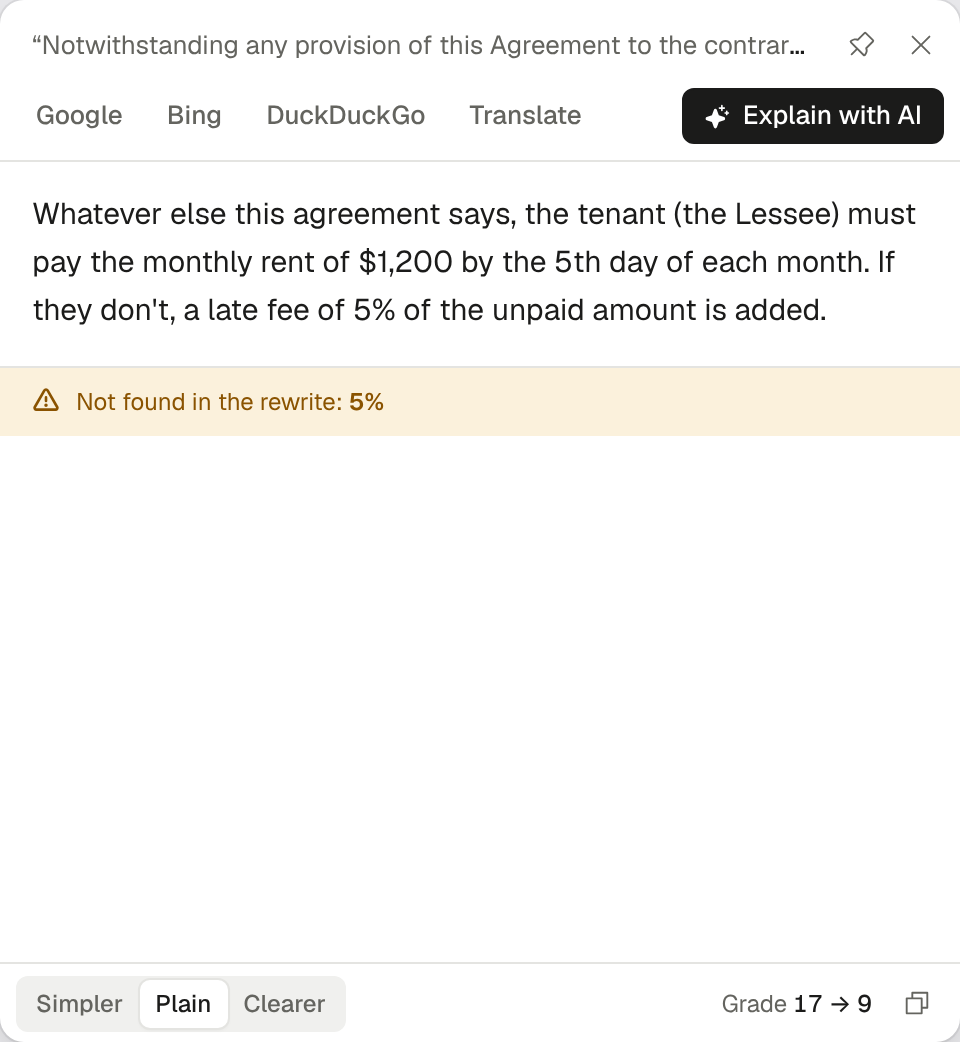
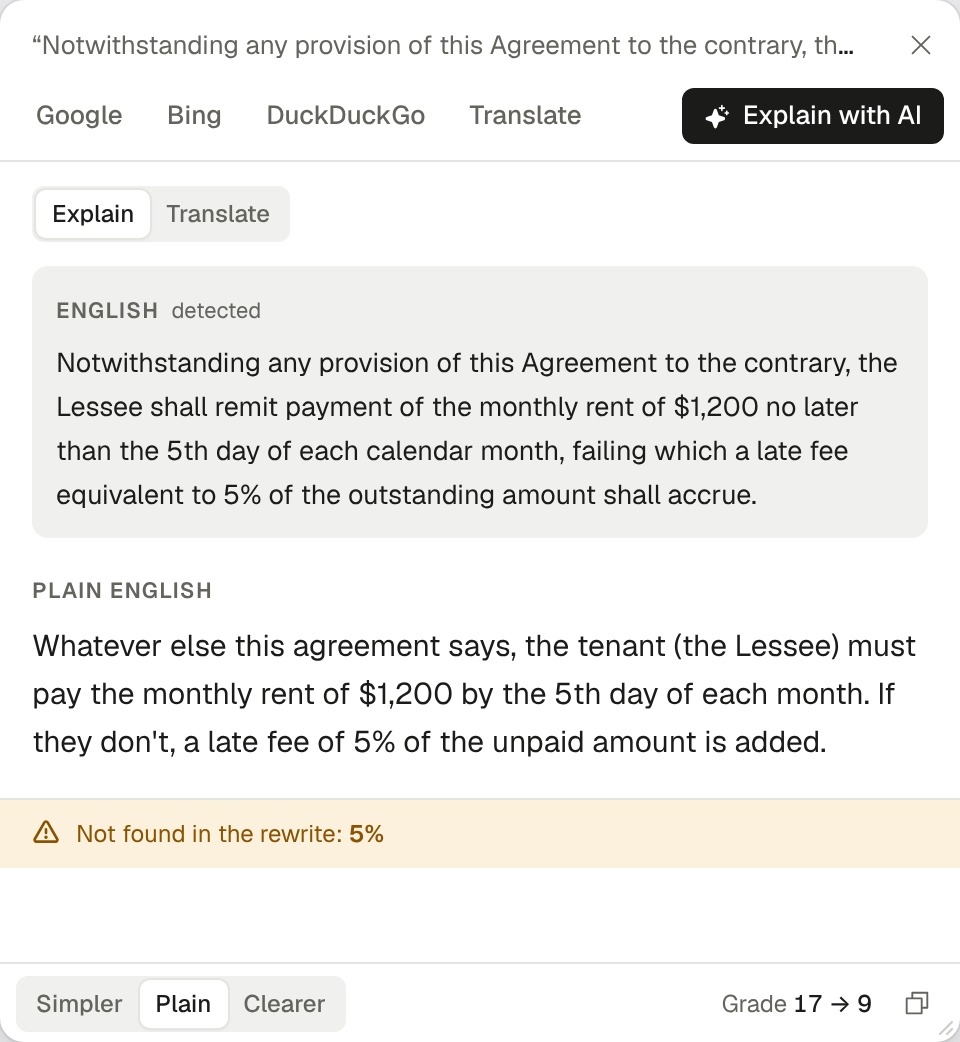
docs: current screenshots and test counts
The card screenshots still showed the pin button, which is gone. They are
re-rendered from the app (scripts/shots/features.mjs now makes the two
feature shots), and the test counts in the README and marketing kit are
current: 201 Rust, 37 unit, 118 Playwright.

diff --git a/docs/marketing/resume.md b/docs/marketing/resume.md
@@ -14,14 +14,17 @@ downloads until they exist.
 - Designed a deterministic meaning check that compares numbers, dates, acronyms and names
   between source and rewrite and flags omissions or invented facts in the UI.
 - Implemented selection capture through Windows UI Automation with a clipboard fallback
-  that snapshots and restores every clipboard format, and a non-activating popup that
-  never steals focus.
+  that snapshots and restores every clipboard format, and a popup that opens beside the
+  text without stealing focus from the app being read.
 - Built an evaluation harness that runs a 28-passage corpus through candidate models in
   parallel GitHub Actions jobs; chose Gemma 4 E2B as default (about 6 s median per rewrite
   on a 4-core CPU, 3.9 GB, fewest dropped facts), replacing a slower first choice, and
   sized the engine's prompt cache by measurement (first words 4x faster than with it off).
-- Wrote 111 Rust tests, 10 front-end tests and 38 Playwright journey and WCAG 2.2 AA
-  checks, gated in GitHub Actions on Linux and Windows with an installer built per push.
+- Wrote 201 Rust tests, 37 front-end unit tests and 118 Playwright journey and WCAG 2.2 AA
+  checks, run before every push; each push builds, smoke-tests and publishes a Windows
+  installer on a GitHub runner.
+- Shipped signed self-updates (minisign, Tauri updater): installed copies check hourly,
+  ask before installing, show download progress and refuse an unsigned build.
 
 **Keywords (ATS):** Rust, Tauri, TypeScript, React, Tailwind CSS, Radix UI, llama.cpp,
 GGUF, local LLM inference, prompt engineering, constrained decoding (GBNF), Win32 API,

diff --git a/docs/PROGRESS.md b/docs/PROGRESS.md
@@ -147,9 +147,9 @@ Decisions that belong to the owner (not built until decided):
 
 ## Numbers (for the marketing kit; measured, not estimated)
 
-- Tests (15 October 2026): 198 Rust (core and Windows crate, including end-to-end engine
+- Tests (16 October 2026): 201 Rust (core and Windows crate, including end-to-end engine
   tests against a stand-in llama-server, download tests against a flaky local server, and
-  the word book's SQLite tests), 37 front-end unit tests, 108 Playwright checks (journeys
+  the word book's SQLite tests), 37 front-end unit tests, 118 Playwright checks (journeys
   and WCAG 2.2 AA scans, each in light and dark).
 - Model evaluation (4-vCPU GitHub runner, no GPU, 56 rewrites per model; `docs/models.md`):
   Gemma 4 E2B 17.3 tok/s, 5.8 s median per answer (first words after 2.2 s), 3.9 GB

diff --git a/docs/marketing/case-study.md b/docs/marketing/case-study.md
@@ -68,7 +68,7 @@ anything leaving the computer. It must not get in the way of the work you are do
   (fewer false alarms on contract terms and shortened names), and the engine's prompt
   cache, sized by measurement after a memory-saving idea made answers 4 to 7 seconds
   slower.
-- 198 Rust tests, 37 front-end unit tests and 108 Playwright checks (journeys plus WCAG
+- 201 Rust tests, 37 front-end unit tests and 118 Playwright checks (journeys plus WCAG
   2.2 AA scans in light and dark), run before every push; every push also builds the
   Windows installer, smoke-tests it on a Windows runner and publishes it as the preview
   download.
